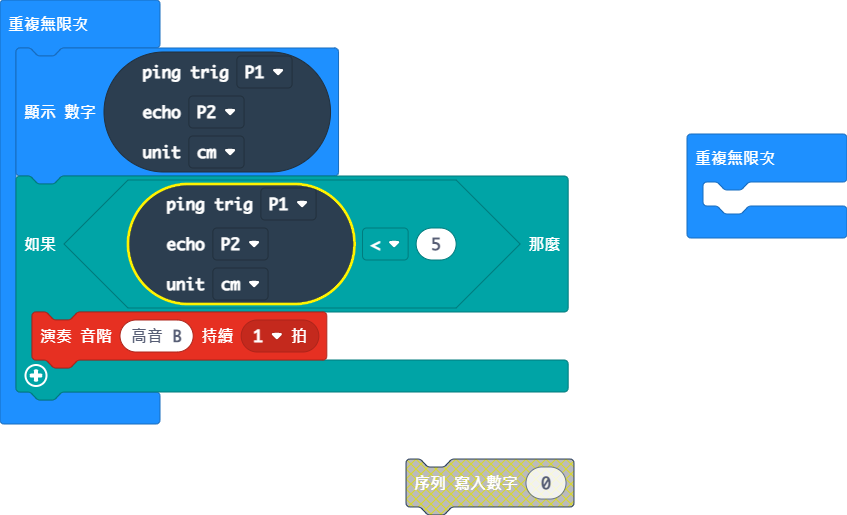
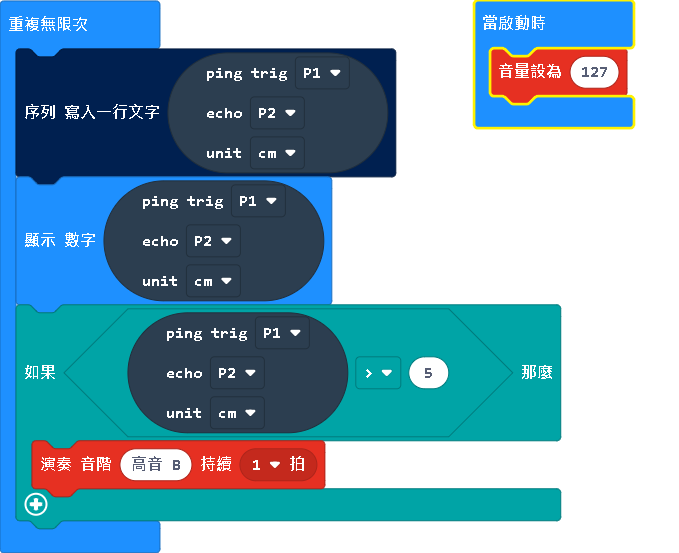
更新 main.blocks, main.ts

diff --git a/main.ts b/main.ts
@@ -1,4 +1,10 @@
+music.setVolume(127)
 basic.forever(function () {
+    serial.writeLine("" + (sonar.ping(
+    DigitalPin.P1,
+    DigitalPin.P2,
+    PingUnit.Centimeters
+    )))
     basic.showNumber(sonar.ping(
     DigitalPin.P1,
     DigitalPin.P2,
@@ -8,10 +14,7 @@ basic.forever(function () {
     DigitalPin.P1,
     DigitalPin.P2,
     PingUnit.Centimeters
-    ) < 5) {
+    ) > 5) {
         music.playTone(988, music.beat(BeatFraction.Whole))
     }
-})
-basic.forever(function () {
-	
 })
